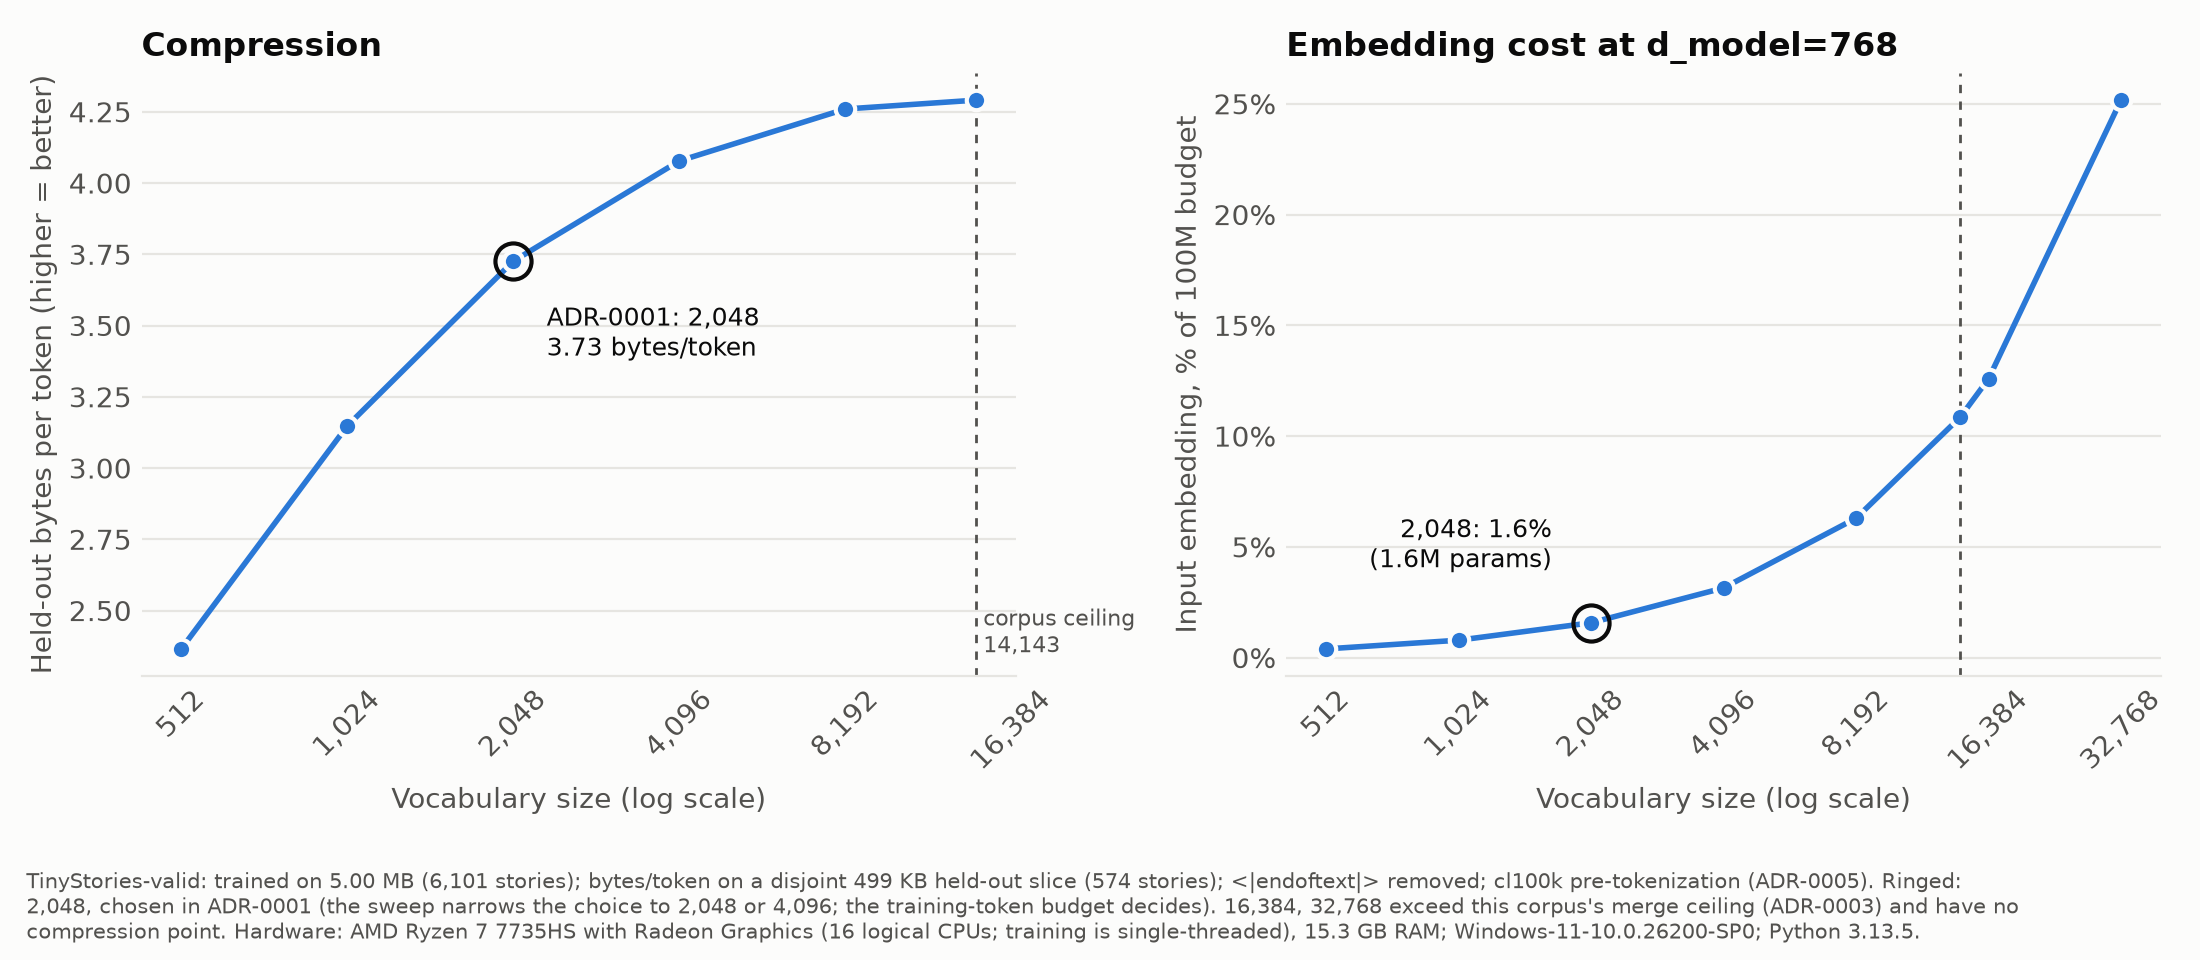
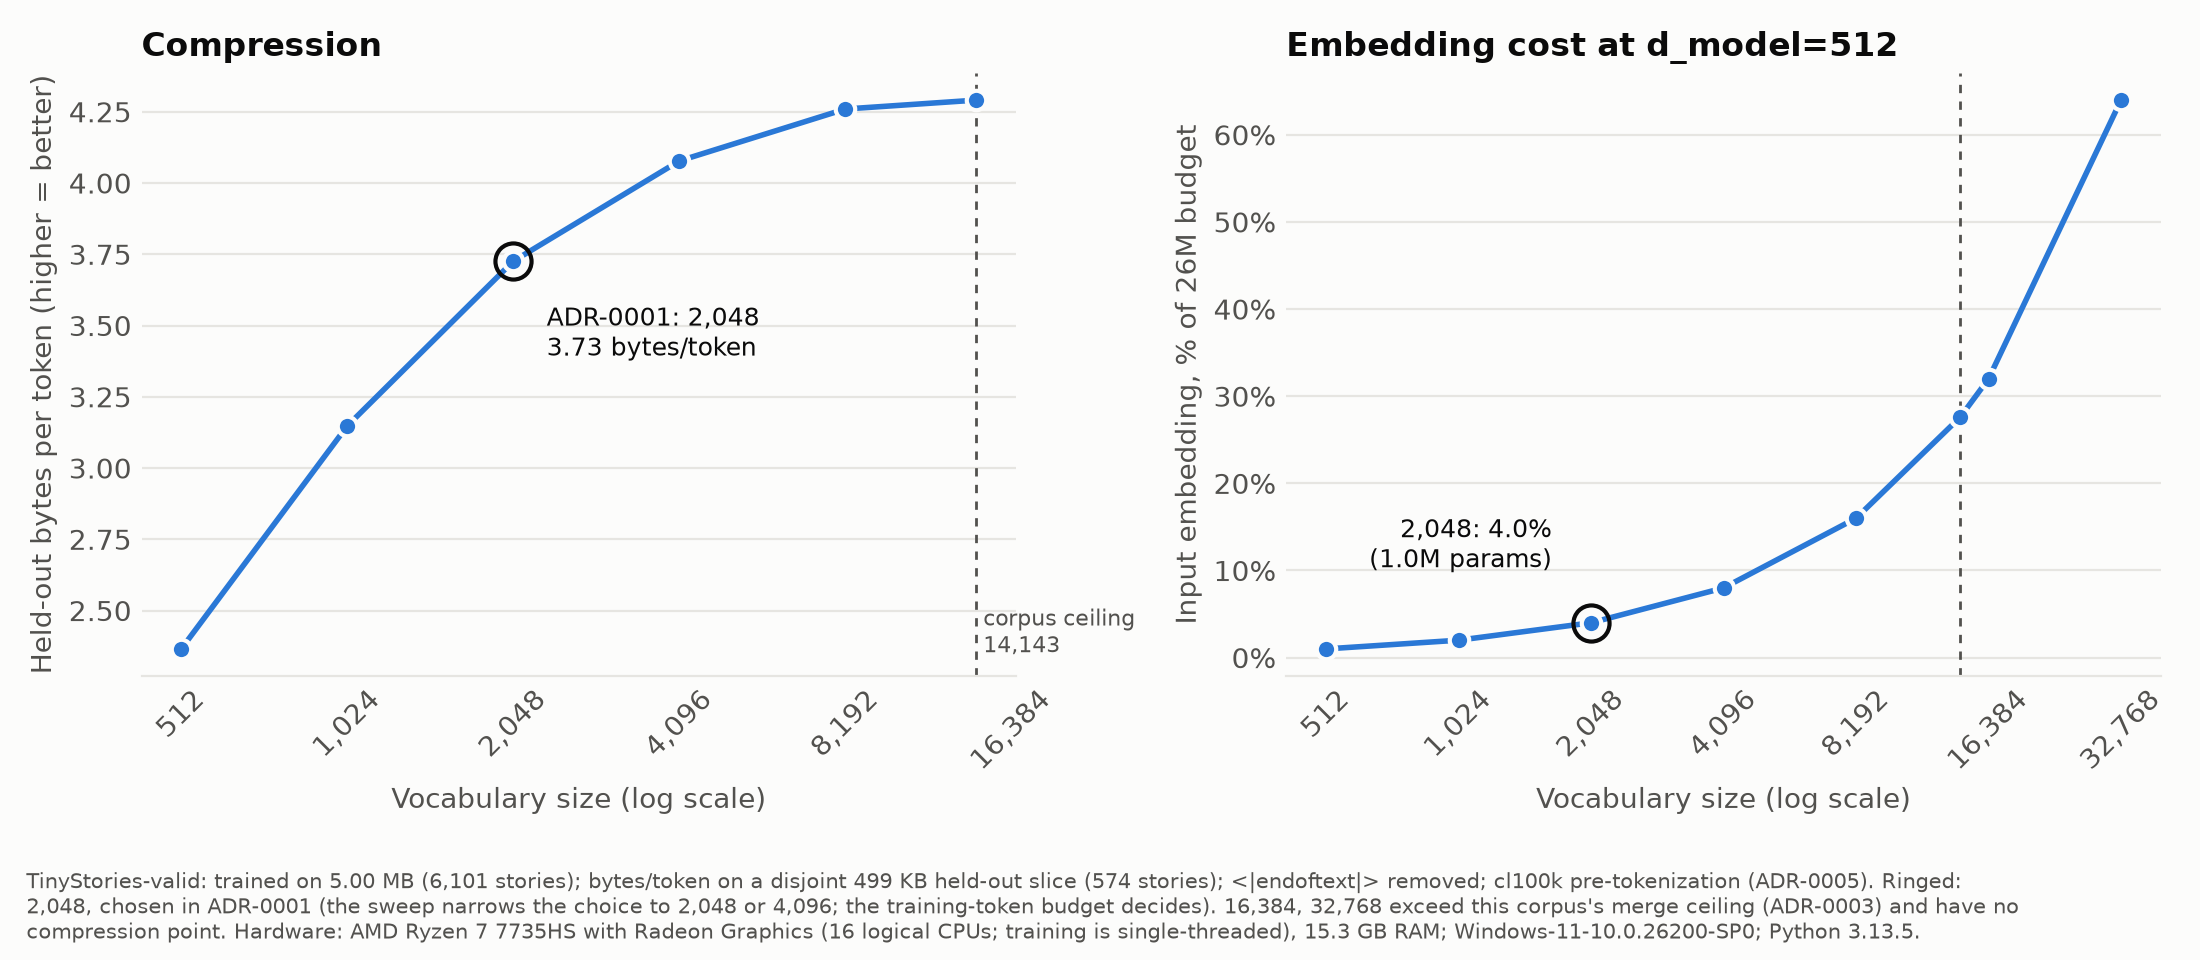
Repoint the vocab sweep at the ~25M budget; close the 100M audit
Authorship (CLAUDE.md): written by Claude in a Claude Code session
(2026-09-25).

An audit of every "100M" in the repo found one live claim still on the old
budget: scripts/sweep_vocab.py computed embedding share against
PARAM_BUDGET = 100_000_000 at D_MODEL = 768, so results/vocab_sweep.png was
labelled "Embedding cost at d_model=768" and "% of 100M budget". That is a
published artifact asserting a superseded target.

- scripts/sweep_vocab.py: D_MODEL 768 -> 512, PARAM_BUDGET 100,000,000 ->
  26,223,616 (ADR-0006, S25), with a comment pointing at ADR-0001's
  amendment for both sets of percentages.
- results/vocab_sweep.{csv,json,png}: regenerated. Shares are now 4.00% at
  2,048 and 8.00% at 4,096, matching ADR-0001's amendment; the figure reads
  "d_model=512" and "% of 26M budget". Bytes/token is unchanged (3.7258 at
  2,048), as it must be -- only the cost column depended on the budget.
- docs/adr/0001-vocab-size.md: the amendment records the regeneration and
  notes the Results table below it still carries the original figures.
- docs/adr/0006-model-size-and-data.md: the consequence "CLAUDE.md and the
  README still describe a ~100M model" is marked done, listing what now
  says ~25M and why the remaining 100M mentions are deliberate: this ADR's
  rejected options, ADR-0001's original text, and model_budget.py's M100
  config, which exists to be compared against.

Suite: 102 passed, 1 skipped (unchanged; no code under test was touched).
[…]

Changed region(s): [[0.5255, 0.0938, 0.9891, 0.6562], [0.8345, 0.0312, 0.8655, 0.0625], [0.6182, 0.5625, 0.6491, 0.5938]]

diff --git a/scripts/sweep_vocab.py b/scripts/sweep_vocab.py
@@ -41,8 +41,11 @@ from tokenizer import Tokenizer  # noqa: E402
 VOCAB_SIZES = [512, 1024, 2048, 4096, 8192, 16384, 32768]
 TRAIN_BYTES = 5_000_000
 HELDOUT_BYTES = 500_000
-D_MODEL = 768
-PARAM_BUDGET = 100_000_000
+# ADR-0006 replaced the ~100M / d_model 768 plan these two once held with
+# S25. ADR-0001 was decided under the old pair and carries a dated
+# amendment giving both sets of percentages.
+D_MODEL = 512  # ADR-0006, S25
+PARAM_BUDGET = 26_223_616  # ADR-0006, S25 total parameters
 SEPARATOR = "<|endoftext|>"
 TIMING_REPEATS = 3  # median of 3; single runs varied ~3% in ADR-0005 benchmarks
 EXHAUSTION_PROBE_VOCAB = 1_000_000  # far above any reachable size; forces ADR-0003

diff --git a/docs/adr/0006-model-size-and-data.md b/docs/adr/0006-model-size-and-data.md
@@ -213,8 +213,12 @@ M100 and G86 are recorded for comparison only; neither is trained.
   is stronger: at S25 the 2,048 embedding is 4.0% of parameters, and 4,096
   would make it 7.7%. Same answer; ADR-0001's text still cites the 100M
   budget.
-- **CLAUDE.md and the README still describe a ~100M model.** They need
-  updating to match this ADR.
+- ~~**CLAUDE.md and the README still describe a ~100M model.**~~ **Done
+  2026-09-23/25:** the README, CLAUDE.md, the Phase 1 writeup and
+  `scripts/sweep_vocab.py` (with its regenerated figure and CSV) all state
+  ~25M. Remaining 100M mentions in the repo are historical by design: this
+  ADR's rejected options, ADR-0001's original text under its amendment, and
+  `model_budget.py`'s M100 config, which exists to be compared against.
 - **Phase 3 opens by measuring MFU** on a T4 and re-running
   `model_budget.py`. If S25 lands well below 25% MFU, hours scale up
   proportionally. The decision does not change until they exceed a session.

diff --git a/docs/adr/0001-vocab-size.md b/docs/adr/0001-vocab-size.md
@@ -20,6 +20,12 @@ The "Now" column uses the round 25M, for comparability with the old figures;
 the last column divides by each model's own total, which is how ADR-0006
 quotes them (4.0% and 7.7%).
 
+`scripts/sweep_vocab.py` has been repointed at S25 (d_model 512, 26,223,616
+parameters) and `results/vocab_sweep.{csv,json,png}` regenerated on
+2026-09-25, so the figure and CSV now report shares on that basis: 4.00% at
+2,048, 8.00% at 4,096. Bytes/token is unchanged, as it must be. The Results
+table below still shows the original 100M / d_model 768 figures, as written.
+
 **The decision does not change, and the reasoning behind it gets stronger.**
 The secondary argument here was that the choice between 2,048 and 4,096 was
 cheap: ~1.6 points of the parameter budget. Under ADR-0006 the same step
